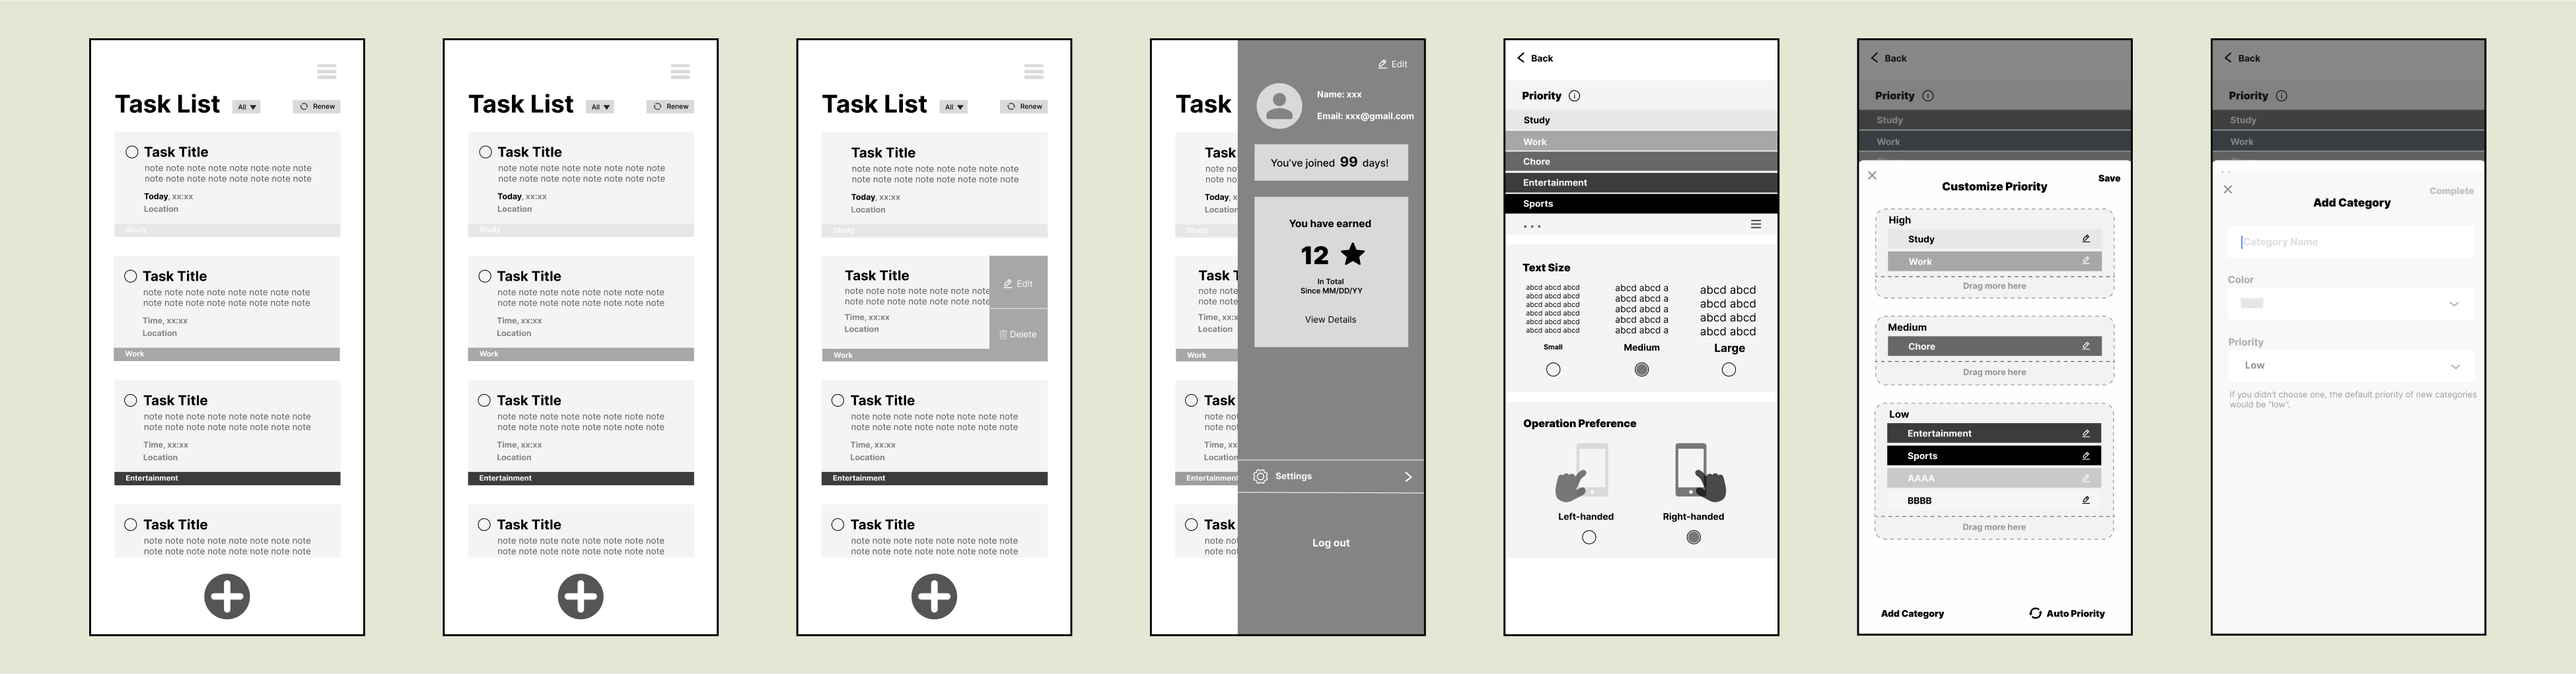
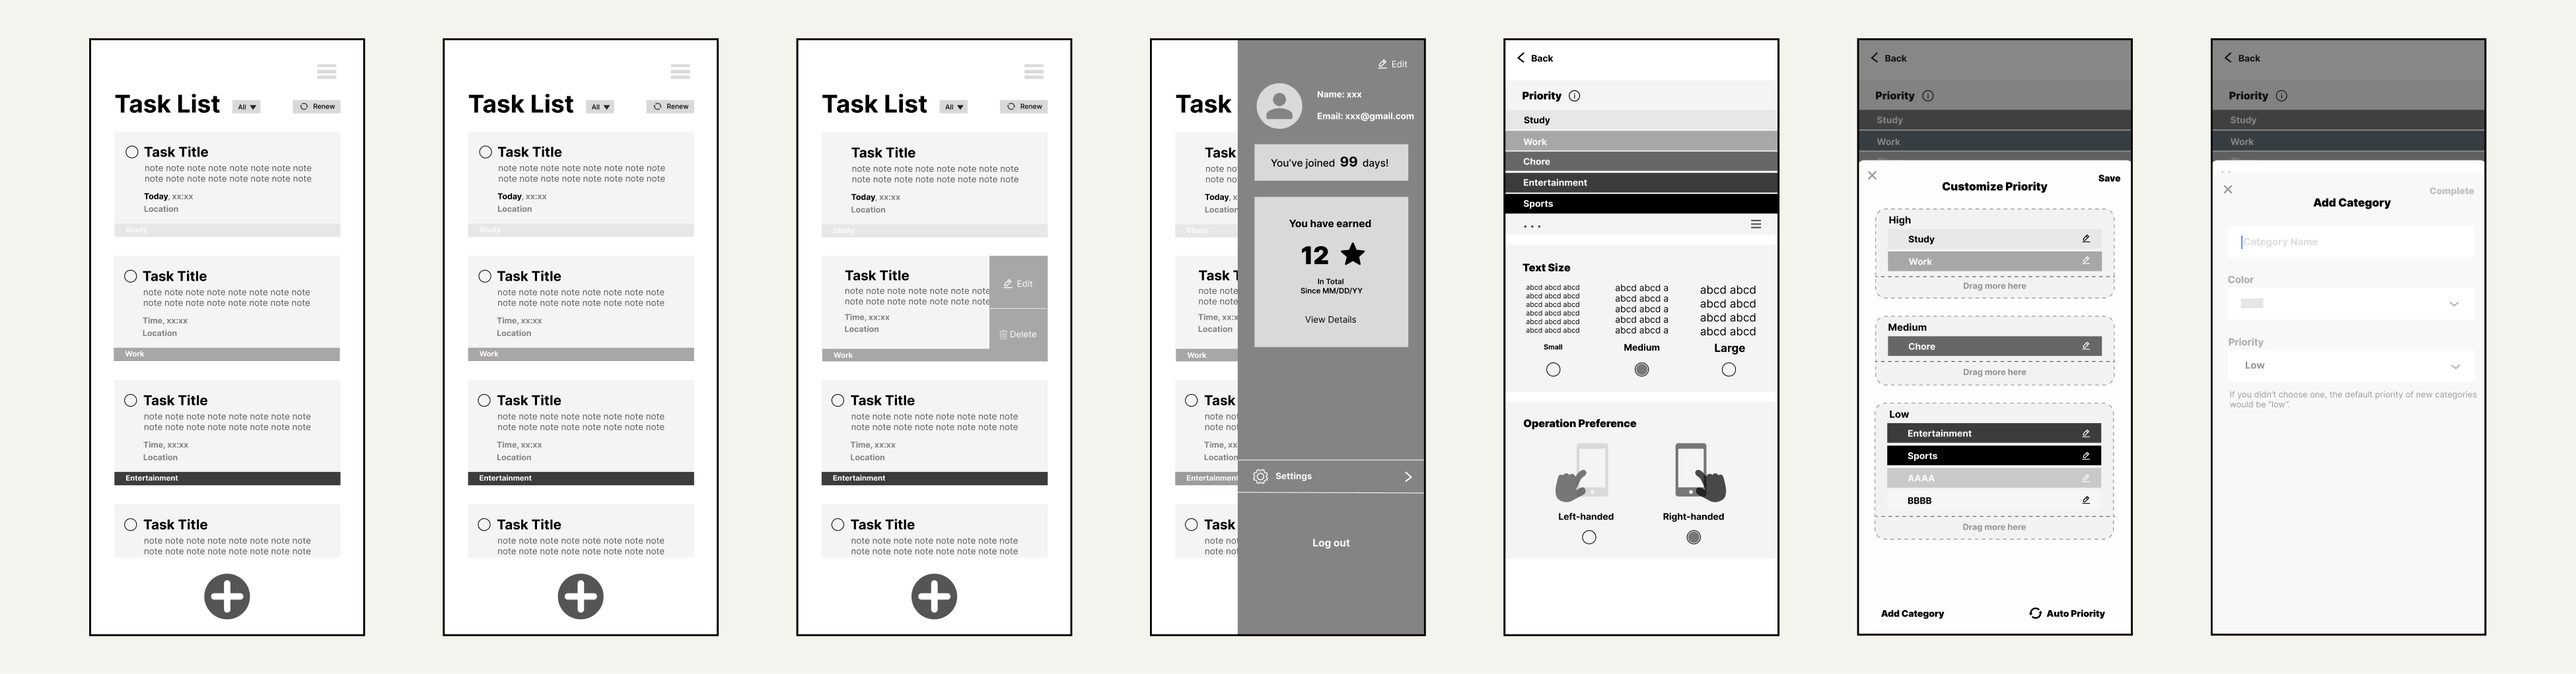
wireframe_color

diff --git a/css/style.css b/css/style.css
@@ -318,11 +318,7 @@ footer h1, footer p{
 }
 
 .light_yellow_background {
-    background: #E4E7D4;
-}
-
-.light_grey_background {
-    background: #f5f5f5;
+    background: #F4F3EE;
 }
 
 .full_width_bg .project_inside img {
